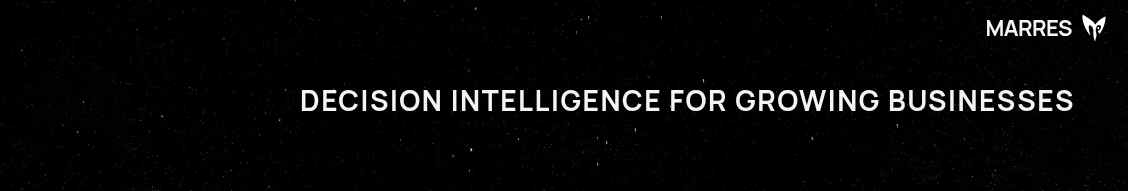
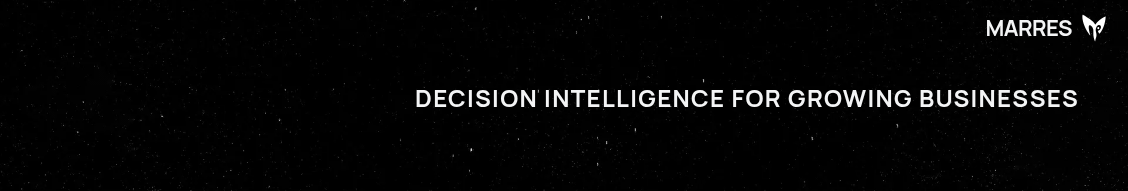
fix(social): clear LinkedIn profile image

Changed region(s): [[0.2482, 0.4712, 0.9619, 0.6021]]

diff --git a/social/linkedin-company-banner-newsreader.html b/social/linkedin-company-banner-newsreader.html
@@ -56,13 +56,13 @@
 
       .tagline {
         position: absolute;
-        top: 86px;
-        left: 300px;
+        top: 94px;
+        left: 395px;
         width: max-content;
         margin: 0;
         color: #f3f4f5;
         font-family: Newsreader, Georgia, serif;
-        font-size: 28px;
+        font-size: 24px;
         font-weight: 600;
         line-height: 1;
         letter-spacing: 0.055em;

diff --git a/social/linkedin-company-banner-manrope.html b/social/linkedin-company-banner-manrope.html
@@ -57,12 +57,12 @@
       .tagline {
         position: absolute;
         top: 86px;
-        left: 300px;
+        left: 415px;
         width: max-content;
         margin: 0;
         color: #f3f4f5;
         font-family: Manrope, Arial, Helvetica, sans-serif;
-        font-size: 28px;
+        font-size: 24px;
         font-weight: 700;
         line-height: 1;
         letter-spacing: 0.055em;
